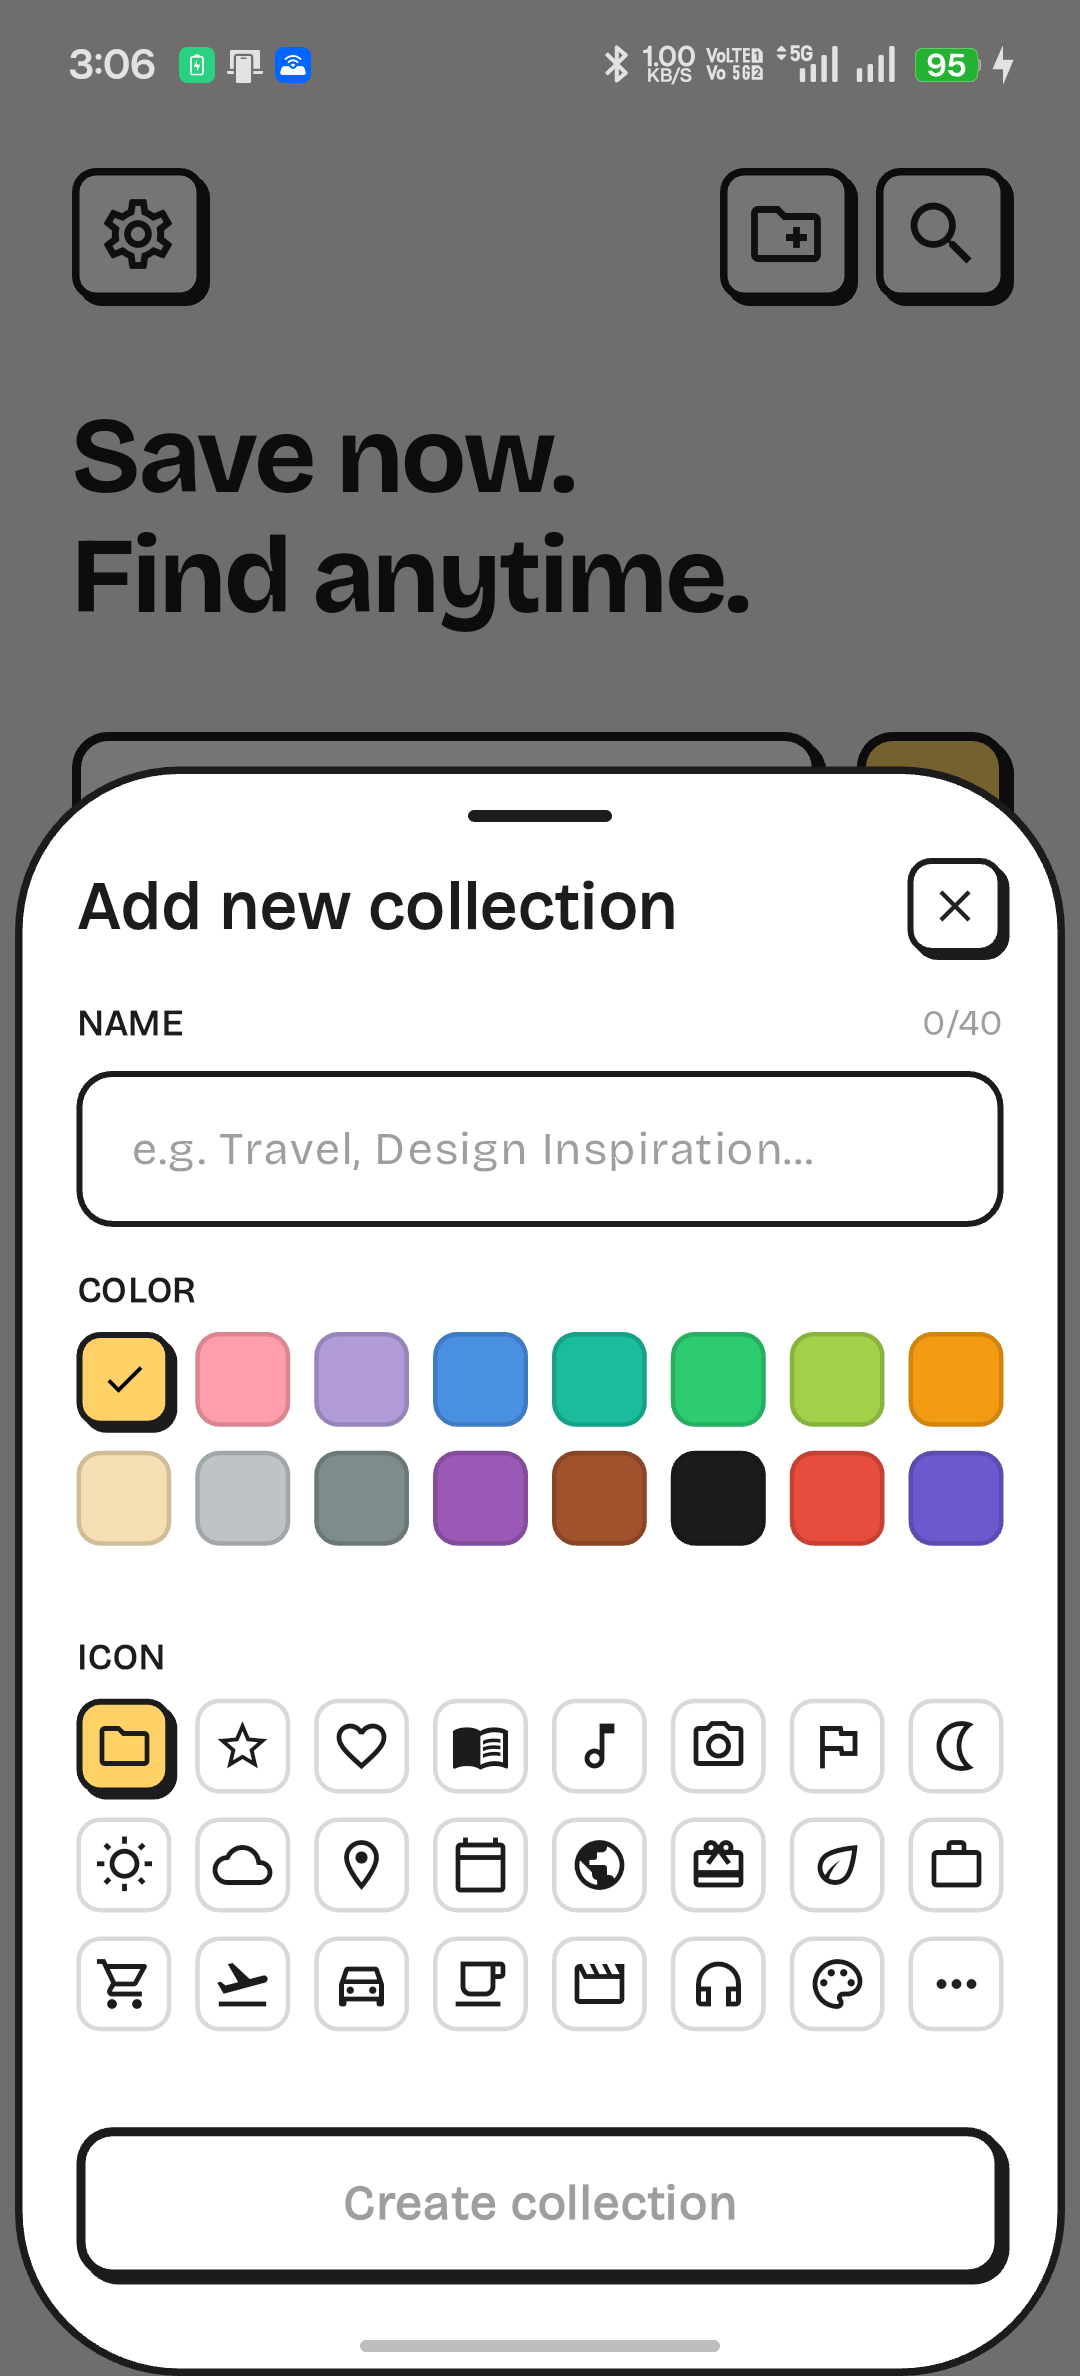
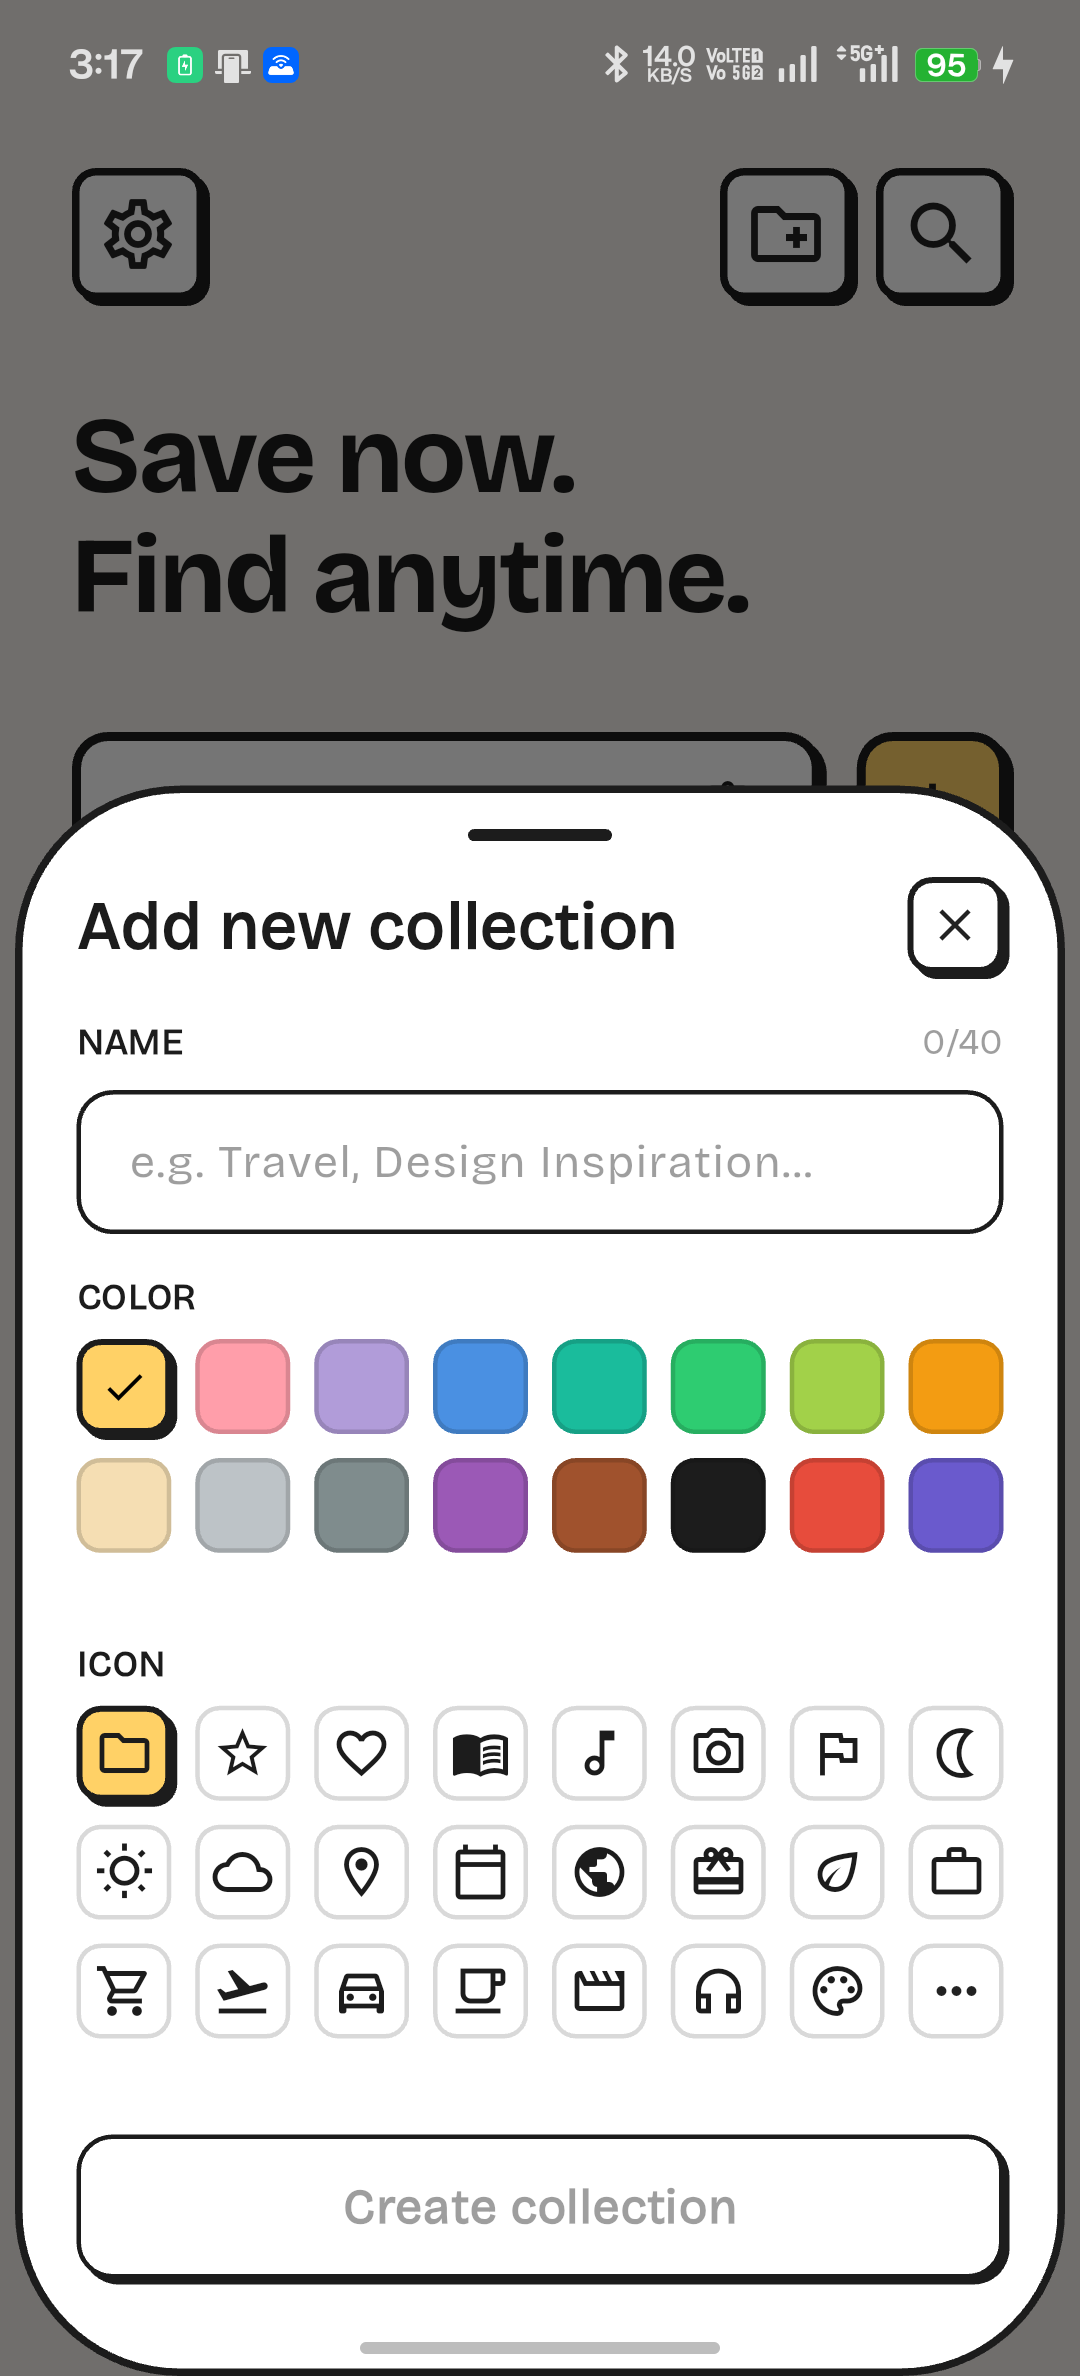
style(collection): decrease button and input height by 5% and make borders thin

diff --git a/lib/ui/widgets/collection_editor_modal.dart b/lib/ui/widgets/collection_editor_modal.dart
@@ -234,21 +234,28 @@ class _CollectionEditorModalState extends ConsumerState<CollectionEditorModal> {
                     ],
                   ),
                   const SizedBox(height: AppDimensions.paddingSm),
-                  Container(
-                    decoration: BoxDecoration(
-                      borderRadius: BorderRadius.circular(AppDimensions.radiusMd),
-                      border: Border.all(color: AppTheme.border, width: 2),
-                    ),
-                    child: TextField(
-                      controller: _nameController,
-                      maxLength: 40,
-                      onChanged: (val) => setState(() {}),
-                      decoration: const InputDecoration(
-                        hintText: 'e.g. Travel, Design Inspiration...',
-                        hintStyle: TextStyle(color: Colors.black38, fontSize: 15),
-                        contentPadding: EdgeInsets.symmetric(horizontal: 16, vertical: 12),
-                        border: InputBorder.none,
-                        counterText: '',
+                  SizedBox(
+                    height: 48.0,
+                    child: Container(
+                      decoration: BoxDecoration(
+                        borderRadius: BorderRadius.circular(AppDimensions.radiusMd),
+                        border: Border.all(color: AppTheme.border, width: 1.5),
+                      ),
+                      child: Center(
+                        child: TextField(
+                          controller: _nameController,
+                          maxLength: 40,
+                          textAlignVertical: TextAlignVertical.center,
+                          onChanged: (val) => setState(() {}),
+                          decoration: const InputDecoration(
+                            hintText: 'e.g. Travel, Design Inspiration...',
+                            hintStyle: TextStyle(color: Colors.black38, fontSize: 15),
+                            contentPadding: EdgeInsets.symmetric(horizontal: 16),
+                            border: InputBorder.none,
+                            isDense: true,
+                            counterText: '',
+                          ),
+                        ),
                       ),
                     ),
                   ),
@@ -404,12 +411,13 @@ class _CollectionEditorModalState extends ConsumerState<CollectionEditorModal> {
                   builder: (context) {
                     final isNameEmpty = _nameController.text.trim().isEmpty;
                     return SizedBox(
-                      height: 50.4,
+                      height: 48.0,
                       width: double.infinity,
                       child: NeoButton(
                         onPressed: !isNameEmpty ? _save : () {},
                         color: !isNameEmpty ? const Color(0xFFFFD166) : AppTheme.cardColor,
                         padding: EdgeInsets.zero,
+                        borderWidth: 1.5,
                         borderRadius: AppDimensions.radiusMd,
                         child: Center(
                           child: Text(

diff --git a/test/collection_editor_modal_test.dart b/test/collection_editor_modal_test.dart
@@ -219,7 +219,7 @@ void main() {
     expect(find.byIcon(Icons.more_horiz), findsNothing);
   });
 
-  testWidgets('CollectionEditorModal save button has height 50.4 matching URL bar', (tester) async {
+  testWidgets('CollectionEditorModal save button and name field have height 48.0 and thin border', (tester) async {
     await tester.pumpWidget(
       buildTestWidget(
         child: const Scaffold(
@@ -235,7 +235,16 @@ void main() {
     final sizedBox = tester.widget<SizedBox>(
       find.ancestor(of: buttonFinder, matching: find.byType(SizedBox)).first,
     );
-    expect(sizedBox.height, 50.4);
+    expect(sizedBox.height, 48.0);
+
+    // Verify name field container has thin border (1.5) and height 48
+    final textFieldFinder = find.byType(TextField);
+    expect(textFieldFinder, findsOneWidget);
+    final nameContainer = tester.widget<Container>(
+      find.ancestor(of: textFieldFinder, matching: find.byType(Container)).first,
+    );
+    final border = (nameContainer.decoration as BoxDecoration).border as Border;
+    expect(border.top.width, 1.5);
   });
 
   testWidgets('Unselected colors and icons have light borders, selected have dark borders', (tester) async {
